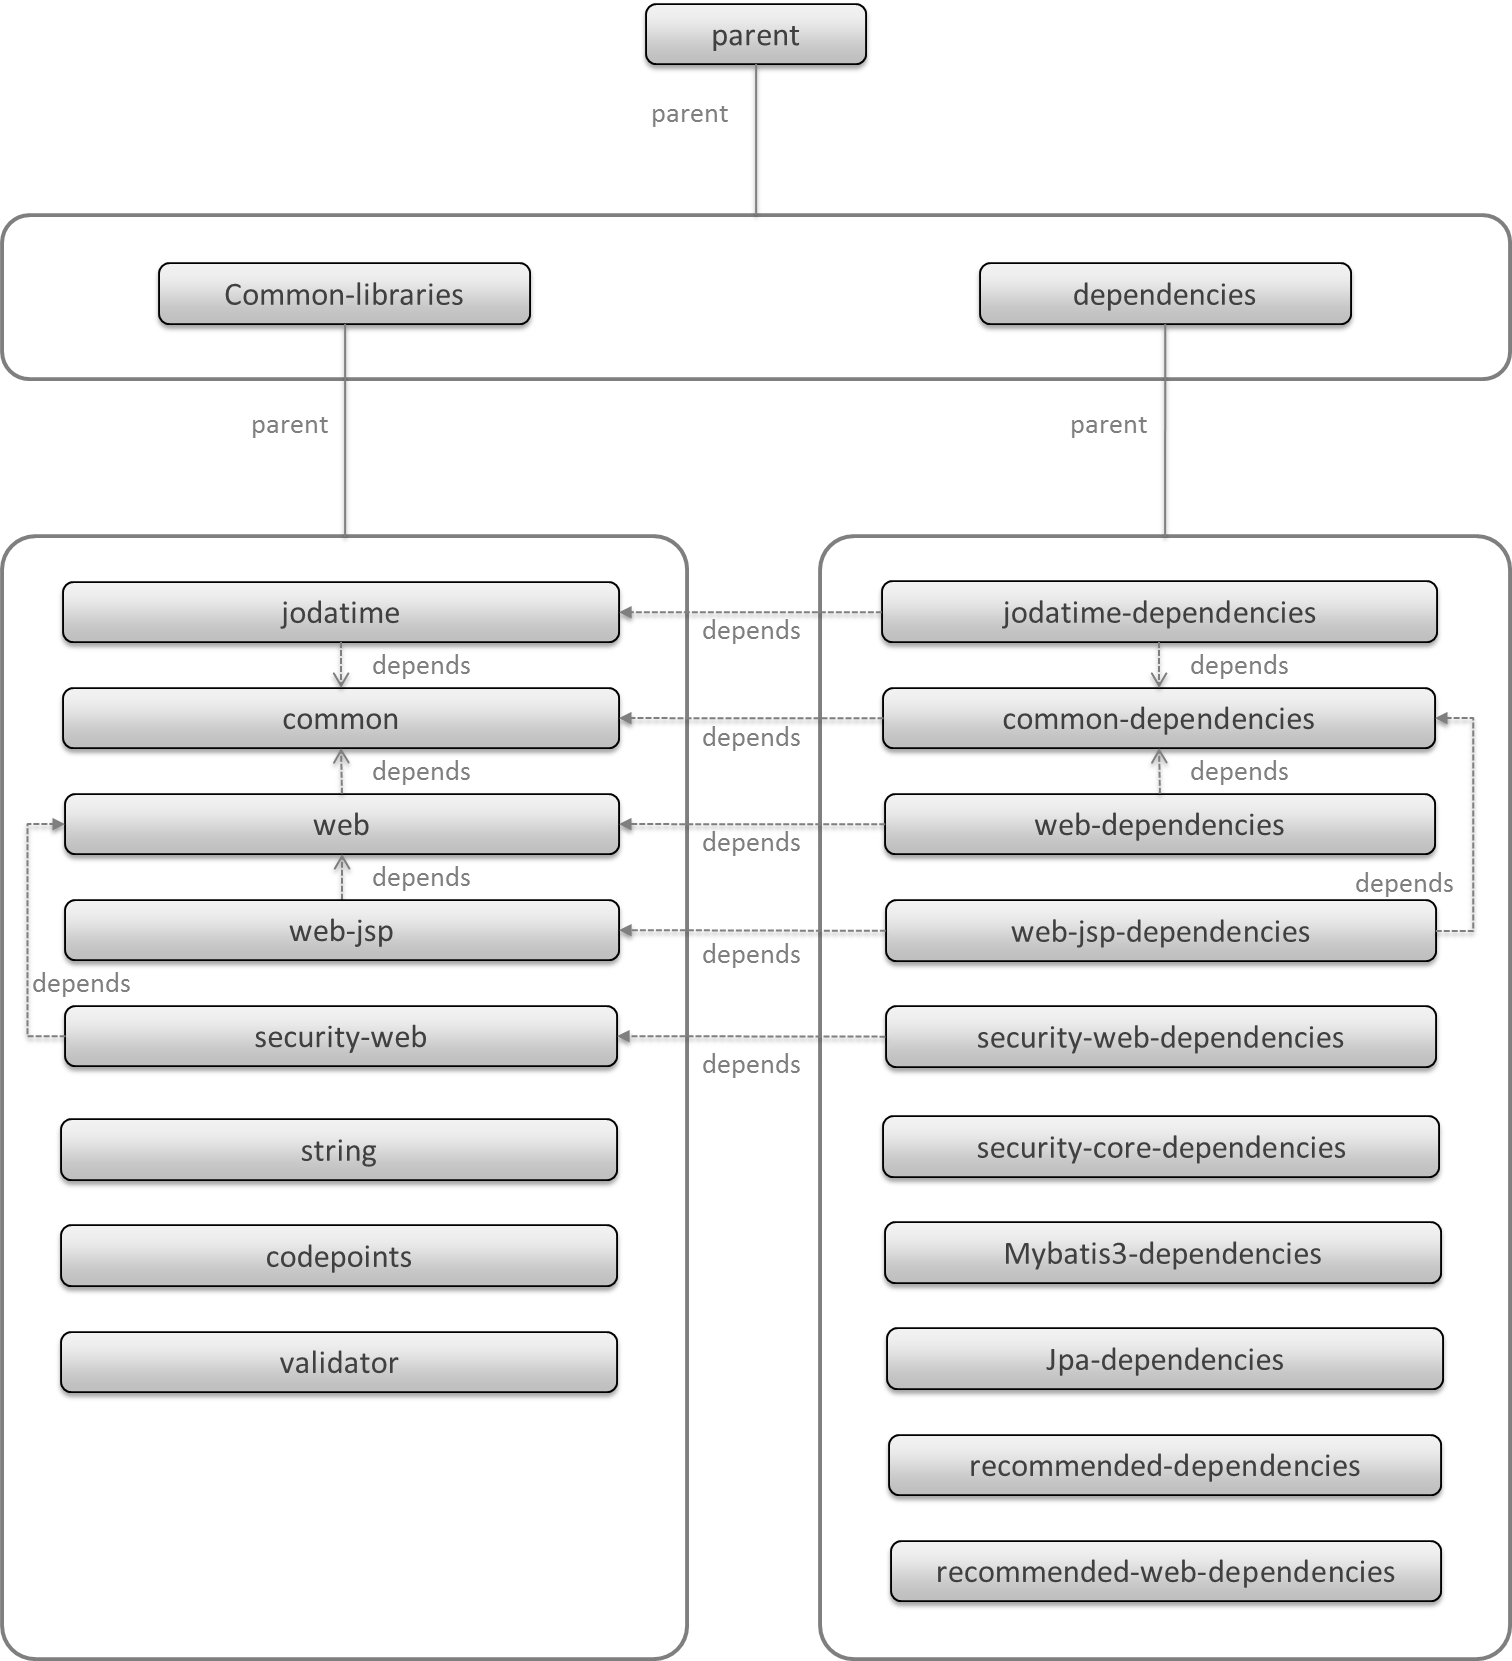
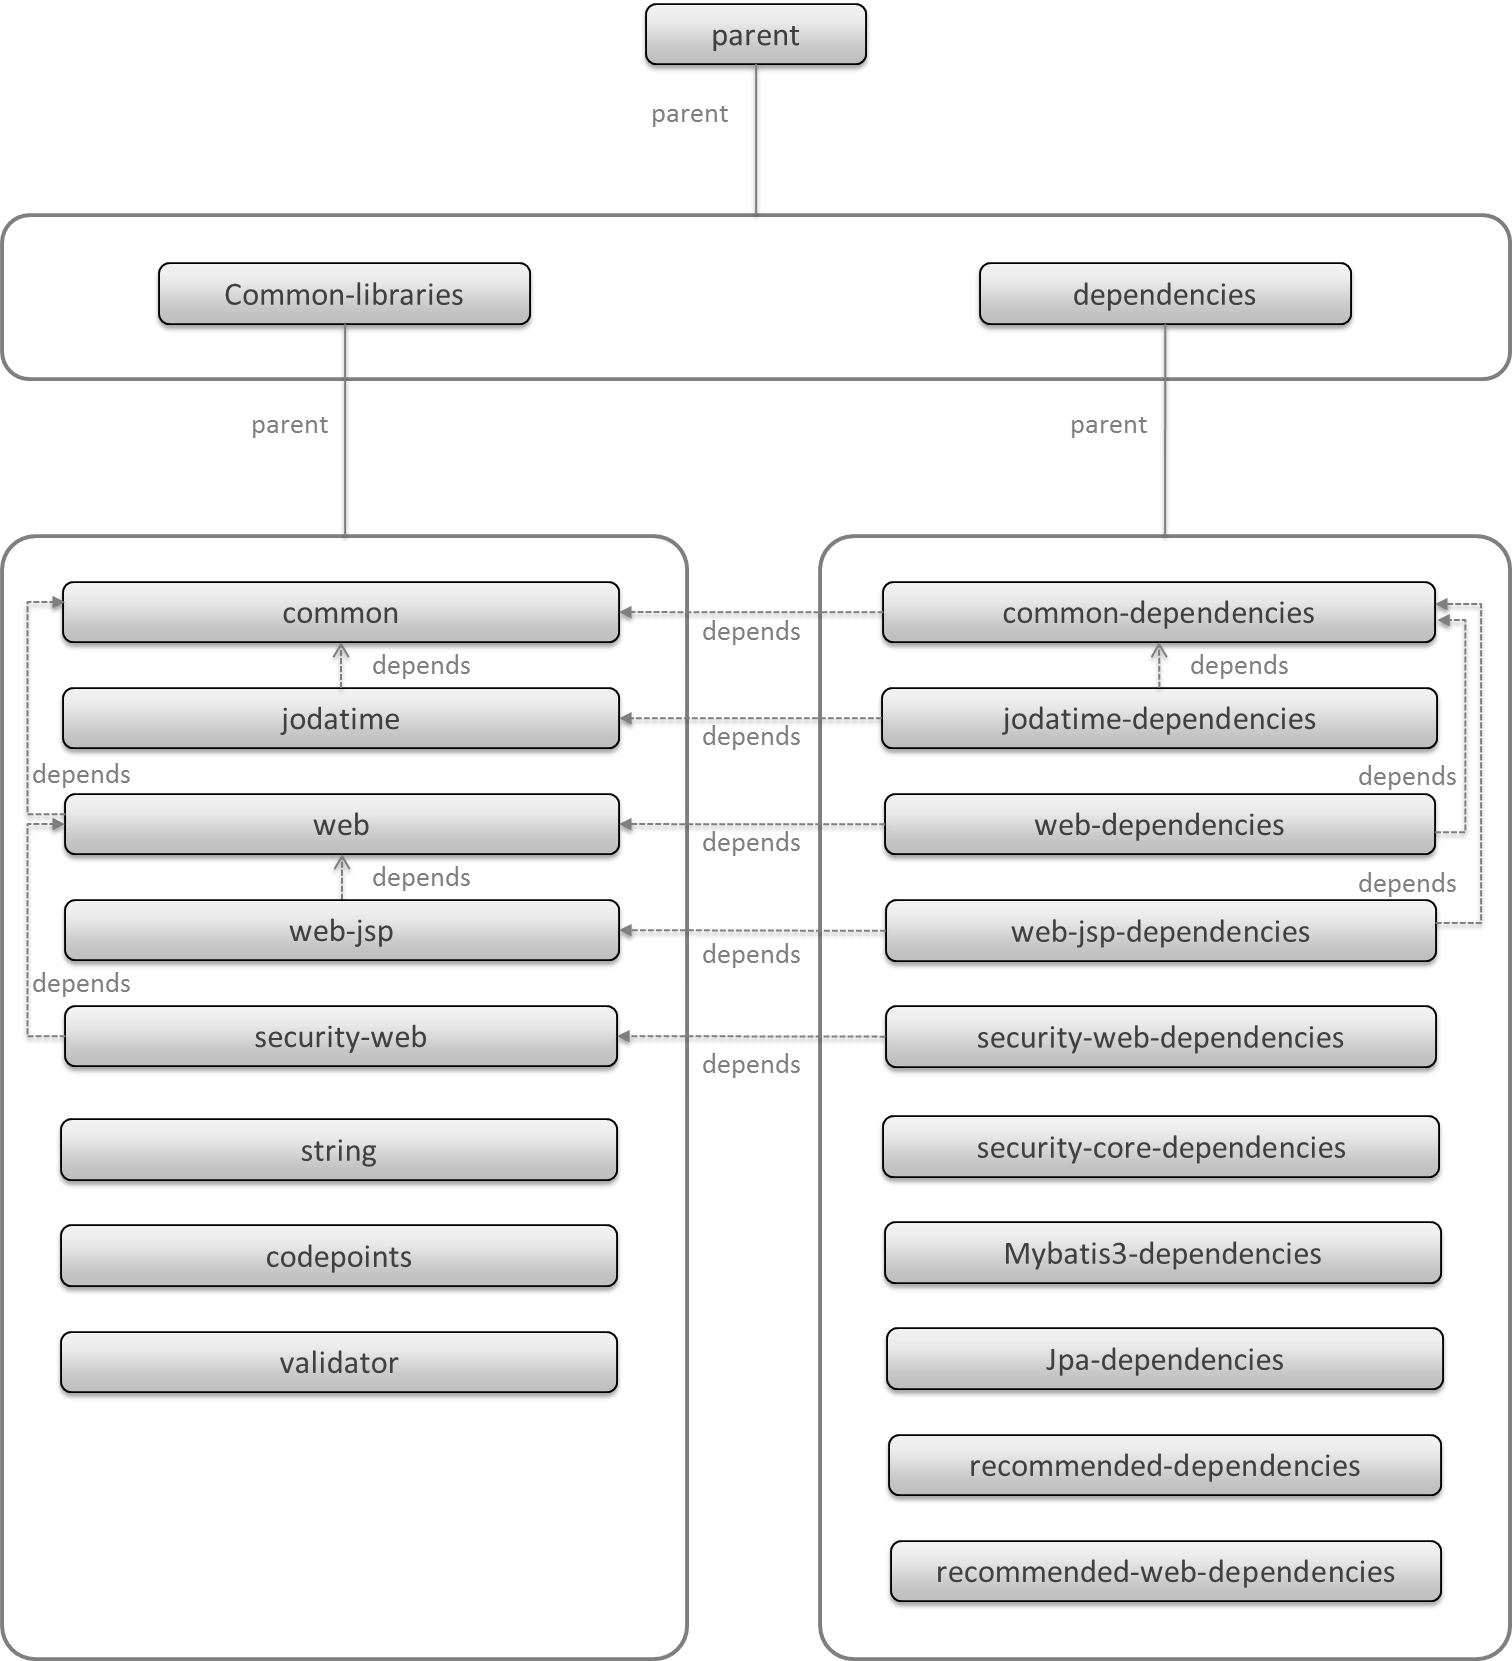
rearrange the order of artifacts #1982

diff --git a/source/Overview/FrameworkStack.rst b/source/Overview/FrameworkStack.rst
@@ -639,136 +639,136 @@ version 5.1.0.RELEASEで利用するOSSの一覧を以下に示す。
       - マルチプロジェクト構成のブランクプロジェクト組込
       - シングルプロジェクト構成のブランクプロジェクト組込
     * - \ (1)
-      - terasoluna-gfw-common
-      - Webに依存しない汎用的に使用できる機能を提供する。本ライブラリを利用する場合は、依存関係としてterasoluna-gfw-common-dependenciesをpom.xmlに追加する。
-      - 有
-      - 有*1
-      - 有*1
-    * - \ (2)
-      - terasoluna-gfw-string
-      - 文字列処理に関連する機能を提供する。(5.1.0から追加)
-      - 有
-      - 無
-      - 無
-    * - \ (3)
-      - terasoluna-gfw-codepoints
-      - 対象の文字列を構成するコードポイントがコードポイント集合に含まれることをチェックする機能を提供する。(5.1.0から追加)
-      - 有
-      - 無
-      - 無
-    * - \ (4)
-      - terasoluna-gfw-validator
-      - 汎用的なBean Validationの制約アノテーションを追加して提供する。(5.1.0から追加)
-      - 有
-      - 無
-      - 無
-    * - \ (5)
-      - terasoluna-gfw-jodatime
-      - Joda Timeに依存する機能を提供する。本ライブラリを利用する場合は、依存関係としてterasoluna-gfw-jodatime-dependenciesをpom.xmlに追加する。(5.0.0から追加)
-      - 有
-      - 有*1
-      - 有*1
-    * - \ (6)
-      - terasoluna-gfw-web
-      - Webアプリケーションを作成する場合に使用する機能を提供する。Viewに依存しない機能を集約している。本ライブラリを利用する場合は、依存関係としてterasoluna-gfw-web-dependenciesをpom.xmlに追加する。
-      - 有
-      - 有*1
-      - 有*1
-    * - \ (7)
-      - terasoluna-gfw-web-jsp
-      - ViewにJSPを採用するWebアプリケーションを作成する場合に使用する機能を提供する。本ライブラリを利用する場合は、依存関係としてterasoluna-gfw-web-jsp-dependenciesをpom.xmlに追加する。
-      - 有
-      - 有*1
-      - 有*1
-    * - \ (8)
-      - terasoluna-gfw-mybatis3-dependencies
-      - MyBatis3を使用する場合の依存関係定義を提供する。
-      - 無
-      - 有*2
-      - 有*2
-    * - \ (9)
-      - terasoluna-gfw-jpa-dependencies
-      - JPAを使用する場合の依存関係定義を提供する。
-      - 無
-      - 有*3
-      - 有*3
-    * - \ (10)
-      - terasoluna-gfw-security-core-dependencies
-      - Spring Securityを使用する場合の依存関係定義(Web以外)を提供する。
-      - 無
-      - 有
-      - 有
-    * - \ (11)
-      - terasoluna-gfw-security-web
-      - Spring Securityの拡張部品を提供する。本ライブラリを利用する場合は、依存関係としてterasoluna-gfw-security-web-dependenciesをpom.xmlに追加する。
-      - 有
-      - 有*1
-      - 有*1
-    * - \ (12)
-      - terasoluna-gfw-recommended-dependencies
-      - Webに依存しない推奨ライブラリへの依存関係定義を提供する。
-      - 無
-      - 有
-      - 有
-    * - \ (13)
-      - terasoluna-gfw-recommended-web-dependencies
-      - Webに依存する推奨ライブラリへの依存関係定義を提供する。
-      - 無
-      - 有
-      - 有
-    * - \ (14)
       - terasoluna-gfw-parent
       - 依存ライブラリの管理とビルド用プラグインの推奨設定を提供する。
       - 無
-      - 有*4
-      - 有*4
-    * - \ (15)
+      - 有*1
+      - 有*1
+    * - \ (2)
       - terasoluna-gfw-common-libraries
       - 共通ライブラリのうち、Javaソースコードを含むプロジェクトの構成を定義する。依存関係としてpom.xmlに追加する必要はない。
       - 無
-      - 有*4
-      - 有*4
-    * - \ (16)
+      - 有*1
+      - 有*1
+    * - \ (3)
       - terasoluna-gfw-dependencies
       - 共通ライブラリのうち、依存関係定義のみを提供するプロジェクト(terasoluna-gfw-parent以外)の構成を定義する。依存関係としてpom.xmlに追加する必要はない。
       - 無
-      - 有*4
-      - 有*4
-    * - \ (17)
+      - 有*1
+      - 有*1
+    * - \ (4)
+      - terasoluna-gfw-common
+      - Webに依存しない汎用的に使用できる機能を提供する。本ライブラリを利用する場合は、依存関係としてterasoluna-gfw-common-dependenciesをpom.xmlに追加する。
+      - 有
+      - 有*2
+      - 有*2
+    * - \ (5)
       - terasoluna-gfw-common-dependencies
       - terasoluna-gfw-commonプロジェクトが提供する機能を使用する場合の依存関係定義を提供する。
       - 無
       - 有
       - 有
-    * - \ (18)
+    * - \ (6)
+      - terasoluna-gfw-jodatime
+      - Joda Timeに依存する機能を提供する。本ライブラリを利用する場合は、依存関係としてterasoluna-gfw-jodatime-dependenciesをpom.xmlに追加する。(5.0.0から追加)
+      - 有
+      - 有*2
+      - 有*2
+    * - \ (7)
       - terasoluna-gfw-jodatime-dependencies
       - terasoluna-gfw-jodatimeプロジェクトが提供する機能を使用する場合の依存関係定義を提供する。
       - 無
       - 有
       - 有
-    * - \ (19)
-      - terasoluna-gfw-security-web-dependencies
-      - Spring Securityを使用する場合の依存関係定義(Web関連)と、terasoluna-gfw-security-webプロジェクトが提供する機能を使用する場合の依存関係定義を提供する。
-      - 無
+    * - \ (8)
+      - terasoluna-gfw-web
+      - Webアプリケーションを作成する場合に使用する機能を提供する。Viewに依存しない機能を集約している。本ライブラリを利用する場合は、依存関係としてterasoluna-gfw-web-dependenciesをpom.xmlに追加する。
       - 有
-      - 有
-    * - \ (20)
+      - 有*2
+      - 有*2
+    * - \ (9)
       - terasoluna-gfw-web-dependencies
       - terasoluna-gfw-webプロジェクトが提供する機能を使用する場合の依存関係定義を提供する。
       - 無
       - 有
       - 有
-    * - \ (21)
+    * - \ (10)
+      - terasoluna-gfw-web-jsp
+      - ViewにJSPを採用するWebアプリケーションを作成する場合に使用する機能を提供する。本ライブラリを利用する場合は、依存関係としてterasoluna-gfw-web-jsp-dependenciesをpom.xmlに追加する。
+      - 有
+      - 有*2
+      - 有*2
+    * - \ (11)
       - terasoluna-gfw-web-jsp-dependencies
       - terasoluna-gfw-web-jspプロジェクトが提供する機能を使用する場合の依存関係定義を提供する。
       - 無
       - 有
       - 有
+    * - \ (12)
+      - terasoluna-gfw-security-web
+      - Spring Securityの拡張部品を提供する。本ライブラリを利用する場合は、依存関係としてterasoluna-gfw-security-web-dependenciesをpom.xmlに追加する。
+      - 有
+      - 有*2
+      - 有*2
+    * - \ (13)
+      - terasoluna-gfw-security-web-dependencies
+      - Spring Securityを使用する場合の依存関係定義(Web関連)と、terasoluna-gfw-security-webプロジェクトが提供する機能を使用する場合の依存関係定義を提供する。
+      - 無
+      - 有
+      - 有
+    * - \ (14)
+      - terasoluna-gfw-string
+      - 文字列処理に関連する機能を提供する。(5.1.0から追加)
+      - 有
+      - 無
+      - 無
+    * - \ (15)
+      - terasoluna-gfw-codepoints
+      - 対象の文字列を構成するコードポイントがコードポイント集合に含まれることをチェックする機能を提供する。(5.1.0から追加)
+      - 有
+      - 無
+      - 無
+    * - \ (16)
+      - terasoluna-gfw-validator
+      - 汎用的なBean Validationの制約アノテーションを追加して提供する。(5.1.0から追加)
+      - 有
+      - 無
+      - 無
+    * - \ (17)
+      - terasoluna-gfw-security-core-dependencies
+      - Spring Securityを使用する場合の依存関係定義(Web以外)を提供する。
+      - 無
+      - 有
+      - 有
+    * - \ (18)
+      - terasoluna-gfw-mybatis3-dependencies
+      - MyBatis3を使用する場合の依存関係定義を提供する。
+      - 無
+      - 有*3
+      - 有*3
+    * - \ (19)
+      - terasoluna-gfw-jpa-dependencies
+      - JPAを使用する場合の依存関係定義を提供する。
+      - 無
+      - 有*4
+      - 有*4
+    * - \ (20)
+      - terasoluna-gfw-recommended-dependencies
+      - Webに依存しない推奨ライブラリへの依存関係定義を提供する。
+      - 無
+      - 有
+      - 有
+    * - \ (21)
+      - terasoluna-gfw-recommended-web-dependencies
+      - Webに依存する推奨ライブラリへの依存関係定義を提供する。
+      - 無
+      - 有
+      - 有
 
+#. | \ ``<dependency>``\ 要素ではないが、各プロジェクトの\ ``<parent>``\ 要素として組み込まれる。
 #. | \ ``<dependency>``\ 要素ではないが、\ ``<dependency>``\ 要素からの推移的依存関係として組み込まれる。
 #. | データアクセスに、MyBatis3を使用する場合に標準で組み込まれる共通ライブラリ
 #. | データアクセスに、JPAを使用する場合に標準で組み込まれる共通ライブラリ
-#. | \ ``<dependency>``\ 要素ではないが、各プロジェクトの\ ``<parent>``\ 要素として組み込まれる。
 
 
 Javaソースコードを含まないものは、ライブラリの依存関係のみ定義しているプロジェクトである。
